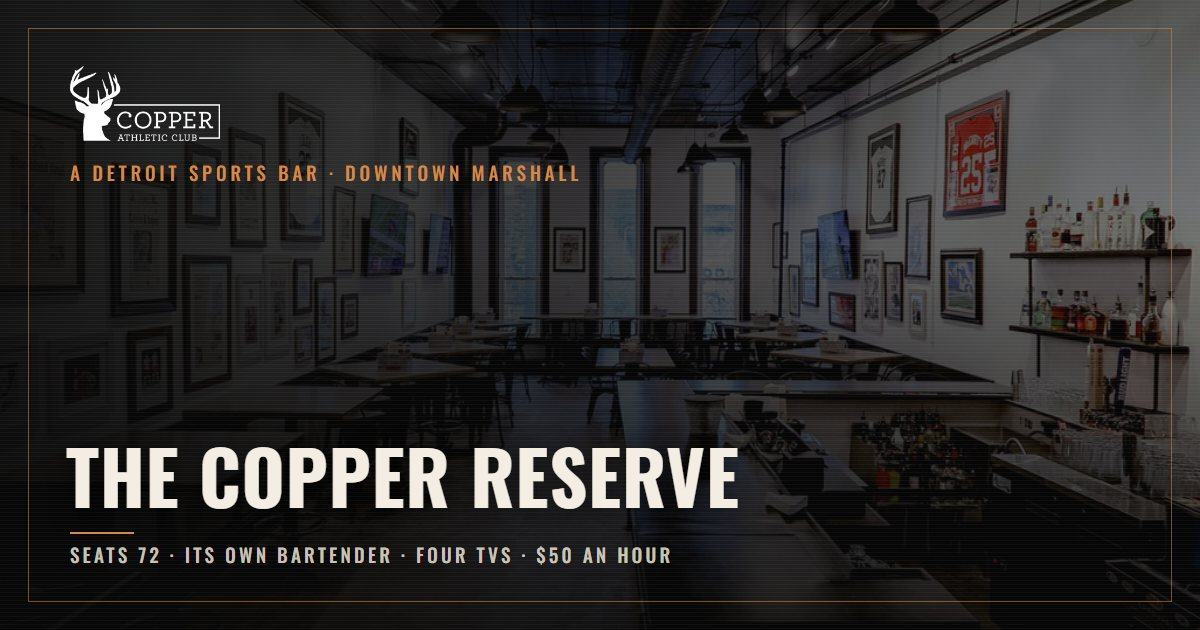
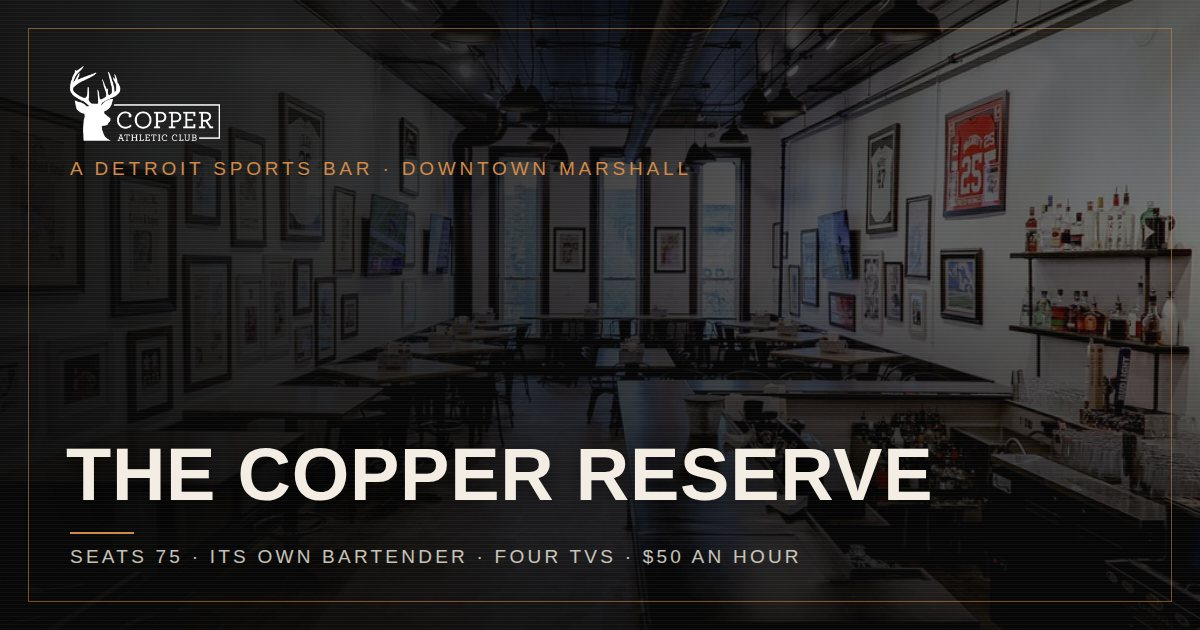
Reserve: no phone number, every enquiry through the form; seats 75
Kevin, 20 Oct 2026: the Reserve page carried the bar's own number, and
the front of the house answering it would only point the caller at the
form, so the form is the way in. The events manager reads the form's
inbox; the bar's line is not hers.

- The two "Call" buttons on /reserve (hero and the Check-your-date
  block) are gone; the copy says the form goes straight to the person who
  keeps the calendar. The site header and footer keep the club's number
  as they do on every page: that is the bar, not the Reserve.
- The enquiry form, reserve variant only: the thanks panel no longer
  offers a call and says the reply comes to the email given; the small
  print under the form drops "prefer to talk it through?"; the
  fallback when the page cannot send names reserve@copperac.com instead
  of the phone. The contact variant is unchanged.
- Capacity is 75 (was 72, from the old site's copy): RESERVE.seats, so
  the homepage card, the Reserve page and its metadata, the events page
  and the form's guest placeholder all follow; the Reserve OG card is
  regenerated with the new line, the other cards untouched.

Verified on the built app: /reserve has no tel: link inside <main> and
says 75 in thirteen places and 72 in none; /contact, / and /events keep
their call buttons. tsc, eslint and next build clean.

Claude-Session: https://claude.ai/code/session_01FdcygHbVYJeLXkD1WTnkkj

Changed region(s): [[0.0617, 0.6937, 0.7708, 0.8143], [0.0617, 0.8444, 0.6783, 0.9048], [0.0617, 0.2413, 0.555, 0.3016]]

diff --git a/components/InquiryForm.tsx b/components/InquiryForm.tsx
@@ -86,7 +86,9 @@ export default function InquiryForm({ variant }: { variant: Variant }) {
       // rather than pretending the message went through.
       window.location.href = composeEmail(data);
       setError(
-        "We could not send that from the page, so your email app should be opening with the details filled in. If it did not, call us and we will take it down over the phone."
+        variant === "reserve"
+          ? `We could not send that from the page, so your email app should be opening with the details filled in. If it did not, email ${SITE.email} and our events manager will take it from there.`
+          : "We could not send that from the page, so your email app should be opening with the details filled in. If it did not, call us and we will take it down over the phone."
       );
     } catch {
       window.location.href = composeEmail(data);
@@ -107,17 +109,22 @@ export default function InquiryForm({ variant }: { variant: Variant }) {
         <p className="display text-2xl uppercase tracking-wide text-copper">
           Thanks, we got it
         </p>
+        {/* The Reserve never offers the phone: the bar's line is answered by
+            the front of the house, who would only point the caller back at
+            this form (Kevin, 20 Oct 2026). The contact form keeps it. */}
         <p className="mt-4 text-base leading-relaxed text-cream-dim">
           {variant === "reserve"
-            ? "Our events manager will get back to you within one business day. If your date is close, call us and we will sort it out right now."
+            ? "Our events manager will get back to you within one business day, and will reply to the email address you gave us."
             : "We will get back to you within one business day. For anything time-sensitive, give us a call."}
         </p>
-        <a
-          href={SITE.phoneHref}
-          className="display mt-7 inline-block rounded-sm border border-copper px-6 py-3 text-sm uppercase tracking-widest text-copper-light transition-colors hover:bg-copper hover:text-ink"
-        >
-          Call {SITE.phone}
-        </a>
+        {variant !== "reserve" && (
+          <a
+            href={SITE.phoneHref}
+            className="display mt-7 inline-block rounded-sm border border-copper px-6 py-3 text-sm uppercase tracking-widest text-copper-light transition-colors hover:bg-copper hover:text-ink"
+          >
+            Call {SITE.phone}
+          </a>
+        )}
       </div>
     );
   }
@@ -184,10 +191,16 @@ export default function InquiryForm({ variant }: { variant: Variant }) {
       )}
 
       <p className="text-xs text-cream-dim/70">
-        We reply within one business day. Prefer to talk it through?{" "}
-        <a href={SITE.phoneHref} className="text-copper-light underline underline-offset-4">
-          {SITE.phone}
-        </a>
+        {variant === "reserve" ? (
+          "Our events manager replies within one business day."
+        ) : (
+          <>
+            We reply within one business day. Prefer to talk it through?{" "}
+            <a href={SITE.phoneHref} className="text-copper-light underline underline-offset-4">
+              {SITE.phone}
+            </a>
+          </>
+        )}
       </p>
     </form>
   );

diff --git a/app/(site)/reserve/page.tsx b/app/(site)/reserve/page.tsx
@@ -94,11 +94,12 @@ export default async function ReservePage() {
             Marshall&rsquo;s premier private bar and rental space, upstairs from the Copper
             Athletic Club. No setup, no cleanup. Just show up.
           </p>
+          {/* No phone number anywhere on this page (Kevin, 20 Oct 2026): the
+              bar's line rings the front of the house, who would only point the
+              caller at this form. Every Reserve enquiry goes to the events
+              manager through it. */}
           <div className="mt-10 flex flex-col gap-4 sm:flex-row">
             <Button href="#inquire">Check Your Date</Button>
-            <Button href={SITE.phoneHref} variant="outline">
-              Call {SITE.phone}
-            </Button>
           </div>
         </div>
       </section>
@@ -196,14 +197,9 @@ export default async function ReservePage() {
             <Heading className="mt-5">Check your date</Heading>
             <p className="mt-7 text-base leading-relaxed text-cream-dim">
               Send us the details and our events manager will confirm availability within
-              one business day. Working on a tight timeline? Call and we will check the
-              calendar while you are on the phone.
+              one business day. The form is the way in: it goes straight to the person
+              who keeps the Reserve calendar.
             </p>
-            <div className="mt-9">
-              <Button href={SITE.phoneHref} variant="outline">
-                Call {SITE.phone}
-              </Button>
-            </div>
             <div className="mt-12 rounded-sm border border-ink-line p-6">
               <h3 className="display text-xs uppercase tracking-[0.2em] text-copper-light">
                 Accessibility

diff --git a/lib/site.ts b/lib/site.ts
@@ -88,7 +88,8 @@ export const SITE = {
 // homepage card, the Reserve page and its metadata, the events page, the
 // enquiry form's guest field). Six copies before this constant existed.
 export const RESERVE = {
-  seats: 72,
+  // 75 per Kevin, 20 Oct 2026 (was 72 from the old site's copy).
+  seats: 75,
   hourlyRate: 50,
   halfHourRate: 25,
 } as const;
